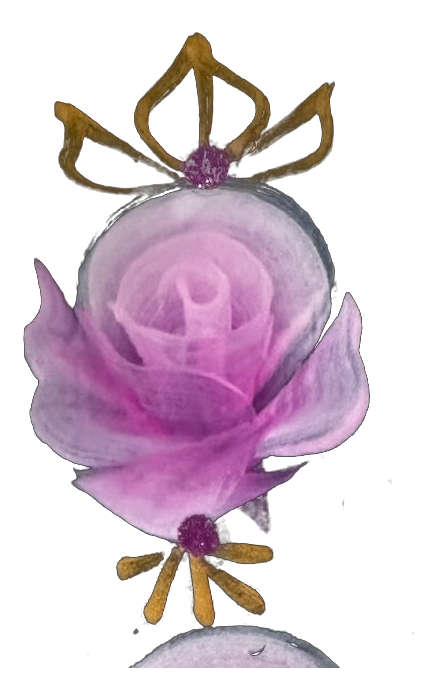
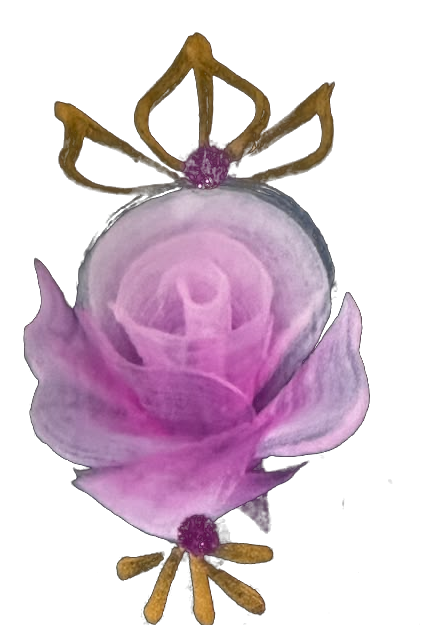
halve maan uit de bloem gesneden en de gouden kroon niet meer achter de navigatiebalk

diff --git a/components/GoudenBloem.tsx b/components/GoudenBloem.tsx
@@ -9,12 +9,16 @@ type Props = {
 
 /** De verhouding van het uitgeknipte beeld. */
 const BREEDTE = 446;
-const HOOGTE = 686;
+const HOOGTE = 625;
 
 /**
  * Het merkteken van La Flora: een van Sabrina's eigen geschilderde rozen,
  * met de gouden kroon erboven en het krulornament eronder, uitgeknipt van
  * het zwarte oefenbord. Overal op de site komt dit ene beeld terug.
+ *
+ * Het beeld was 446 bij 686. Onderin stond nog de bovenrand van een tweede,
+ * bleke roos, die als een halve maan onder het ornament uitkwam. Die is
+ * weggesneden, vandaar de hoogte van 625.
  */
 export default function GoudenBloem({ groot = 64, className = "", prioriteit = false }: Props) {
   const hoogte = Math.round((groot * HOOGTE) / BREEDTE);

diff --git a/app/globals.css b/app/globals.css
@@ -286,7 +286,15 @@ img {
    -------------------------------------------------------------------------- */
 
 .hero {
-  padding-block: clamp(2.5rem, 6vw, 5rem) var(--ruimte-5);
+  /*
+   * De bloem staat in de top van de spiegelboog en wordt daar met
+   * translate(-50%, -48%) bovenuit getild, zo'n 96 pixels bij de maat die
+   * in de hero gebruikt wordt. De navigatiebalk erboven is sticky met
+   * z-index 20 en heeft een eigen achtergrond, dus alles wat hier te hoog
+   * komt verdwijnt erachter en dan is de gouden kroon afgesneden.
+   * De ruimte hieronder moet dus ruimer zijn dan die 96 pixels.
+   */
+  padding-block: clamp(7.5rem, 12vw, 10rem) var(--ruimte-5);
   text-align: center;
 }
 
